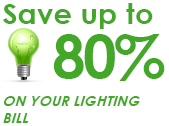
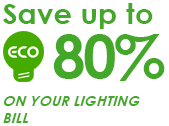
cambio icono bonbillo

Changed region(s): [[0.0, 0.2143, 0.2663, 0.6667]]

diff --git a/templates/loma/css/main.css b/templates/loma/css/main.css
@@ -33,7 +33,8 @@ img.ac_bgimage{position:fixed;left:0;top:0;width:100%;display:none;z-index:0}
 #main_header #menu ul li .border-item{display:none;height:5px;margin:5px auto 0;width:100%}
 #main_header #menu ul li:hover .border-item{display:block;}
 #main_header #menu ul .active .border-item,#main_header #menu ul .active .border-item{display:block;}
-#main_header .info-contacto{color:#435820;position:absolute;right:175px;top:10px;font-size:12px;text-align:center;padding:1em;background:rgba(255,255,255,0.8);-moz-box-shadow:0 5px 5px rgba(0,0,0,0.5),0 0 5px rgba(0,0,0,0.5),inset 0 0 1px 1px rgba(255,255,255,0.2),inset 0 1px 0 rgba(255,255,255,0.2),inset 0 -1px 2px rgba(0,0,0,0.05);-webkit-box-shadow:0 5px 5px rgba(0,0,0,0.5),0 0 5px rgba(0,0,0,0.5),inset 0 0 1px 1px rgba(255,255,255,0.2),inset 0 1px 0 rgba(255,255,255,0.2),inset 0 -1px 2px rgba(0,0,0,0.05);box-shadow:0 5px 5px rgba(0,0,0,0.5),0 0 5px rgba(0,0,0,0.5),inset 0 0 1px 1px rgba(255,255,255,0.2),inset 0 1px 0 rgba(255,255,255,0.2),inset 0 -1px 2px rgba(0,0,0,0.05)}
+#main_header .info-contacto{color:#435820;position:absolute;right:175px;top:10px;font-size:12px;text-align:center;padding:1em;background:rgba(255,255,255,0.8);-moz-box-shadow:0 5px 5px rgba(0,0,0,0.5),0 0 5px rgba(0,0,0,0.5),inset 0 0 1px 1px rgba(255,255,255,0.2),inset 0 1px 0 rgba(255,255,255,0.2),inset 0 -1px 2px rgba(0,0,0,0.05);-webkit-box-shadow:0 5px 5px rgba(0,0,0,0.5),0 0 5px rgba(0,0,0,0.5),inset 0 0 1px 1px rgba(255,255,255,0.2),inset 0 1px 0 rgba(255,255,255,0.2),inset 0 -1px 2px rgba(0,0,0,0.05);box-shadow:0 5px 5px rgba(0,0,0,0.5),0 0 5px rgba(0,0,0,0.5),inset 0 0 1px 1px rgba(255,255,255,0.2),inset 0 1px 0 rgba(255,255,255,0.2),inset 0 -1px 2px rgba(0,0,0,0.05);}
+#main_header .info-contacto .icon-loma{background:url("../img/icon-loma.png") 0 0 no-repeat}
 #main_header .idiomas{position:absolute;right:20px;top:45px;font-size:12px;}
 #main_header .idiomas a{background:url("../img/icono_circulo_blanco.png") 0 0 no-repeat;padding-left:26px;padding-bottom:5px;padding-top:3px}
 #main_header #contactbox .column1,#main_header #contactbox .column2{display:inline-block;vertical-align:top;width:45%}
